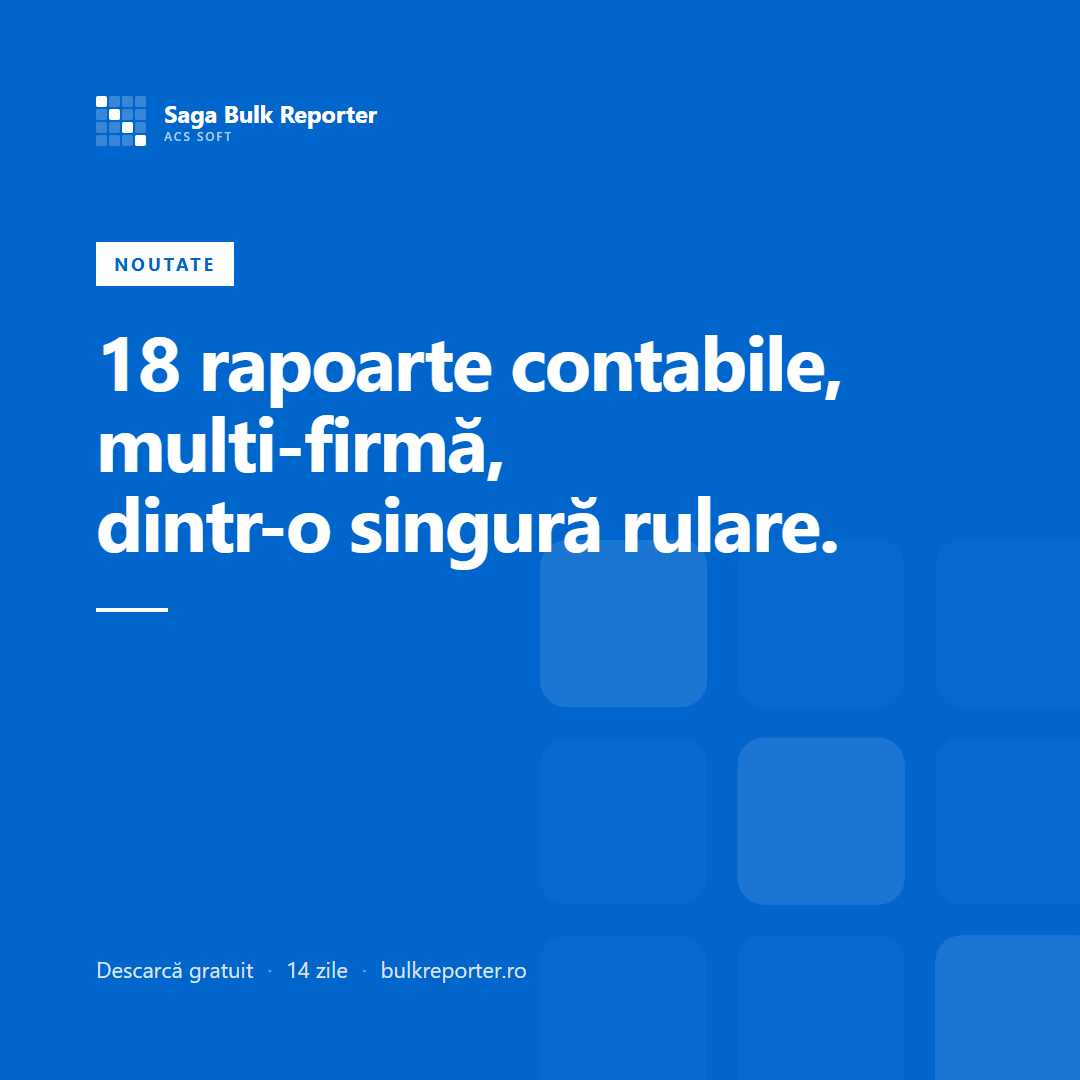
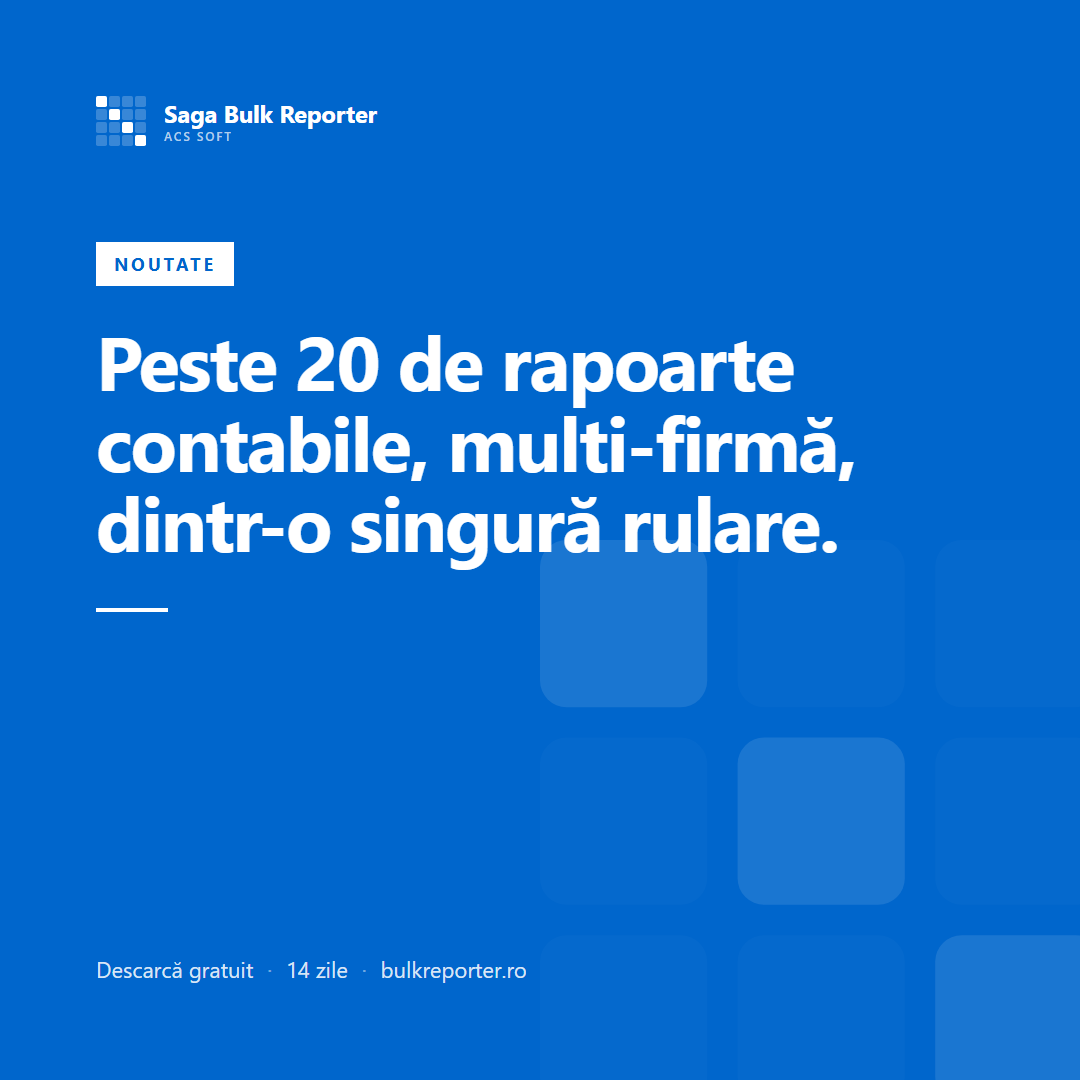
brand: regenerate the OG card and the announcement post at the new count (#225)
The link-preview card is what every share renders, and it carried the same
stale "18 rapoarte" as the page, plus an em dash. Both now read "Peste 20 de
rapoarte", matching the meta descriptions.

The count is edited at its source in build-assets.js and the PNGs re-rendered
from it, so the masters and the images stay in step. The announcement post
carried the same number and is fixed in the same pass.

The OG line needed an explicit <br>: at the new length it wrapped on its own
and orphaned "rulare." onto a line by itself. It is two balanced lines now.

Only og-image and post-announcement were re-rendered, to keep unrelated
binaries out of the diff.

Changed region(s): [[0.0917, 0.3056, 0.7944, 0.4583]]

diff --git a/brand/_src/build-assets.js b/brand/_src/build-assets.js
@@ -133,7 +133,7 @@ const og = page(1200, 630, `
     <div class="eyebrow">Generator de rapoarte · Saga 3.x</div>
     <h1>Rapoarte bulk<br>din Saga</h1>
     <hr class="rule">
-    <p>18 rapoarte — multi-firmă, multi-lună, dintr-o singură rulare.</p>
+    <p>Peste 20 de rapoarte, multi-firmă, multi-lună,<br>dintr-o singură rulare.</p>
     <div class="foot">bulkreporter.ro<i>·</i>Windows 10/11</div>
   </div>
   <div class="hero">${mark('light')}</div>
@@ -162,7 +162,7 @@ const postAnnounce = page(1080, 1080, `
   <div class="bg">${mark('onblue')}</div>
   <div class="lockup lockup--onblue sig">${mark('onblue')}<div class="wm"><b>Saga Bulk Reporter</b><small>ACS Soft</small></div></div>
   <div class="pill">Noutate</div>
-  <h1>18 rapoarte contabile,<br>multi-firmă,<br>dintr-o singură rulare.</h1>
+  <h1>Peste 20 de rapoarte<br>contabile, multi-firmă,<br>dintr-o singură rulare.</h1>
   <hr class="rule">
   <div class="foot">Descarcă gratuit<i>·</i>14 zile<i>·</i>bulkreporter.ro</div>
 </div>`);
